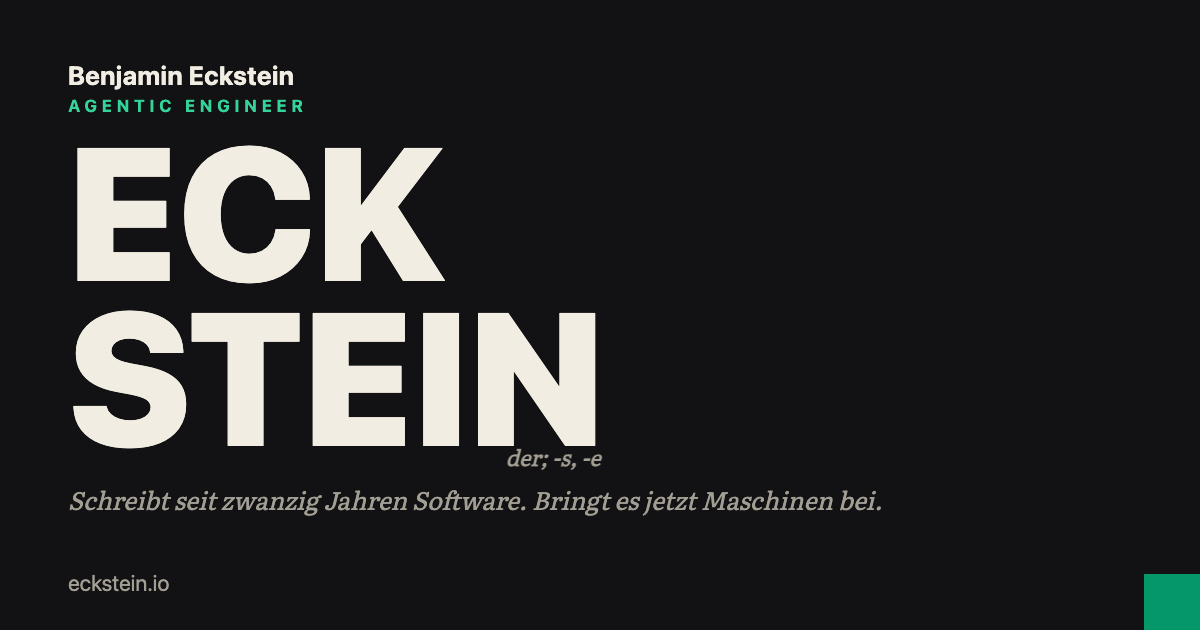
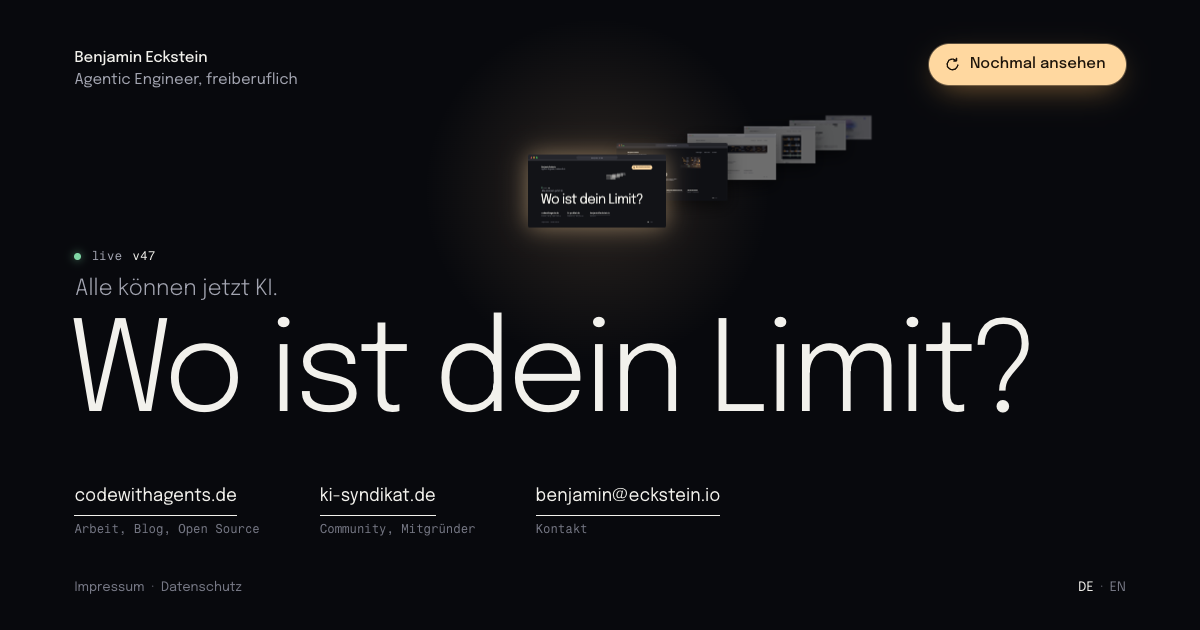
chore: regenerate the social preview from the end screen
public/og-image.png still showed the old poster: giant staggered
letters, the dictionary mark and the green square. It is now a
screenshot of the real German end screen at 1200x630 as a
reduced-motion visitor gets it: Epilogue, the name and role, the
two-line headline, the three links, and the complete stack of six
earlier versions in depth. Regenerating it twice gives the same bytes.

scripts/gen-og.mjs no longer hand-builds a page. It serves dist/ on a
free local port and screenshots that page, so a run needs a build
first and says so. The plan's route, headless Chrome's --screenshot
with --window-size, cannot work here, for two reasons found by running
it. execFileSync blocks the event loop that serves the page, so Chrome
waited for a server that never answered. And a 1200x630 window gives
headless Chrome a 1200x543 page: the film laid itself out for that
height, found no room for the stack and left it out, while the capture
was 630 high. The script now drives Chrome over DevTools, sets the
viewport to 1200x630 there, waits until the end screen is visible and
captures it.

It stops without touching the committed image if the page logs an
error, asks for a file dist/ does not have, or never shows the end
screen. The script's header comment is gone; the README says what it
does and why the viewport comes from DevTools.

Claude-Session: https://claude.ai/code/session_01BGL8cRbAfw1g85gv4aUFzV

diff --git a/README.md b/README.md
@@ -50,6 +50,12 @@ The film's source is `src/film/*.js`, seven parts that `src/components/Film.astr
 one inline script. `pnpm dev` and `FILM_DEV=1 pnpm build` switch on the review hooks
 (`?t=<seconds>` seeks, `?perf=1`, `window.__m`); the plain build that CI runs leaves them out.
 
+`scripts/gen-og.mjs` is a one-off generator, not part of the build; the PNG is committed. It
+serves `dist/` locally and screenshots the German end screen at 1200x630 as a reduced-motion
+visitor sees it, in headless Chrome (macOS default path) over DevTools, with Node 22 or newer.
+The viewport is set through DevTools, not `--window-size`: in headless Chrome a 1200x630
+window gives a 1200x543 page, and the film lays itself out for the page it measures.
+
 The footer of the legal pages and the 404 page shows the short hash of the commit the build
 was made from (`git rev-parse`, executed at build time in `src/lib/site.ts`, falls back to
 "dev").
